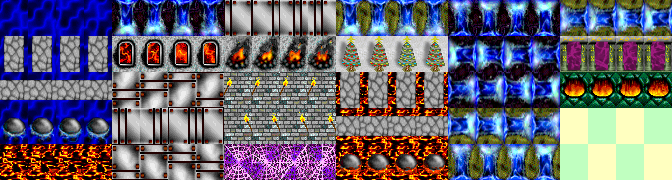
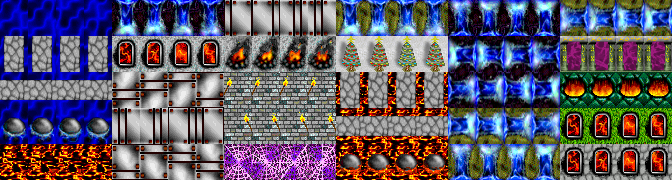
Add two more animated portals
One on grass and one on walkways

Changed region(s): [[0.8125, 0.5833, 1.0, 1.0]]

diff --git a/src/scenedit/scen.keydlgs.cpp b/src/scenedit/scen.keydlgs.cpp
@@ -168,7 +168,7 @@ pic_num_t choose_graphic(short cur_choice,ePicType g_type,cDialog* parent) {
 	cPictChoice* pic_dlg = nullptr;
 	switch(g_type + PIC_PRESET) {
 		case PIC_TER: total_pics = 680; break;
-		case PIC_TER_ANIM: total_pics = 28; break;
+		case PIC_TER_ANIM: total_pics = 30; break;
 		case PIC_DLOG: total_pics = 44; break;
 		case PIC_TALK: total_pics = 84; break;
 		case PIC_SCEN: total_pics = 30; break;
@@ -181,7 +181,7 @@ pic_num_t choose_graphic(short cur_choice,ePicType g_type,cDialog* parent) {
 		case PIC_MISSILE: total_pics = 16; break;
 		case PIC_STATUS: total_pics = 27; break;
 		case PIC_SCEN_LG: total_pics = 4; break;
-		case PIC_TER_MAP: total_pics = 988; break;
+		case PIC_TER_MAP: total_pics = 990; break;
 		case PIC_FULL:
 			if(!fs::is_directory(tempDir/scenario_temp_dir_name/"graphics")) {
 				showError("You have no custom graphics, so it's not possible to select this kind of picture!",parent);
